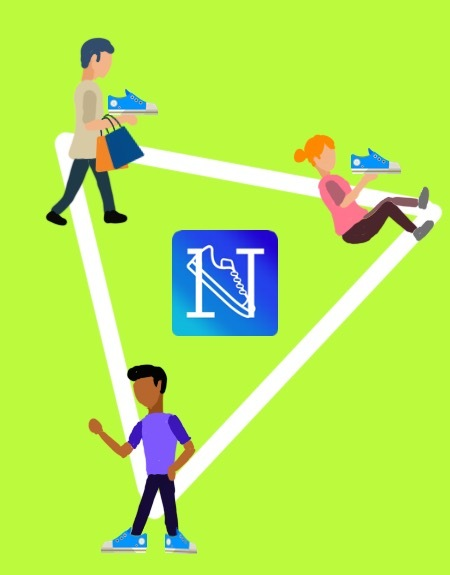
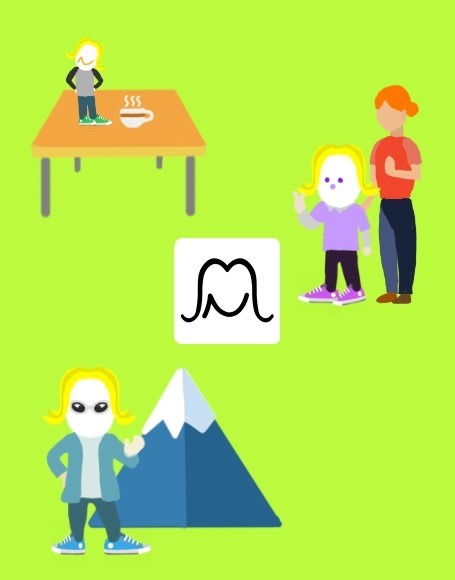
オンボーディング更新

diff --git a/lib/app/views/onboarding_page/onboarding_page.dart b/lib/app/views/onboarding_page/onboarding_page.dart
@@ -94,38 +94,45 @@ class OnboardingPage extends HookConsumerWidget {
       pages: [
         _page(
           context,
-          title: 'N-Sneaker',
-          body: 'N-Sneakerはデジタルスニーカーを\n「買って、集めて、遊べる」\n総合プラットフォームです',
+          title: 'Nevermind',
+          body: 'Nevermindは\n「毎日に小さなオシャレをプラスする」\nファッションフィギュアのアプリです',
           assetImagePath: 'assets/onboarding_images/onboarding1.jpg',
           backgroundImagePath: 'assets/onboarding_images/Blob1.png',
         ),
         _page(
           context,
           title: 'マーケット',
-          body: '気にいったスニーカーを選んで購入',
+          body: '気にいったフィギュアを選んで購入',
           assetImagePath: 'assets/onboarding_images/onboarding2.jpg',
           backgroundImagePath: 'assets/onboarding_images/Blob2.png',
         ),
         _page(
           context,
-          title: 'コレクション',
-          body: '買ったスニーカーはコレクションして\n手のひらの中で好きなだけ\n転がすことができます',
+          title: 'AR',
+          body: 'お気に入りのフィギュアを\nARで私たちの日常に持ってこよう',
           assetImagePath: 'assets/onboarding_images/onboarding3.jpg',
           backgroundImagePath: 'assets/onboarding_images/Blob3.png',
         ),
         _page(
           context,
-          title: 'AR',
-          body: 'お気に入りのスニーカーを\nARで私たちの日常に持ってこよう',
+          title: 'ギャラリー',
+          body: '上手く撮れたフィギュアの写真は\nギャラリーでみんなとシェアしよう',
           assetImagePath: 'assets/onboarding_images/onboarding4.jpg',
           backgroundImagePath: 'assets/onboarding_images/Blob4.png',
         ),
         _page(
           context,
-          title: '',
-          body: 'さあ、新しいファッションライフを\n始めましょう！',
+          title: 'コレクション',
+          body: '買ったフィギュアはコレクションして\n手のひらの中で好きなだけ\n転がすことができます',
           assetImagePath: 'assets/onboarding_images/onboarding5.jpg',
           backgroundImagePath: 'assets/onboarding_images/Blob5.png',
+        ),
+        _page(
+          context,
+          title: '',
+          body: 'さあ、Nevermindと一緒に\n新しい日常を始めましょう！',
+          assetImagePath: 'assets/onboarding_images/onboarding6.jpg',
+          backgroundImagePath: 'assets/onboarding_images/Blob1.png',
         ),
       ],
       next: const Icon(Icons.arrow_forward_ios, color: CommonStyle.black),
@@ -152,12 +159,12 @@ class OnboardingPage extends HookConsumerWidget {
         Navigator.of(context).pop();
       },
       curve: Curves.fastLinearToSlowEaseIn,
-      controlsMargin: const EdgeInsets.all(16),
-      controlsPadding: const EdgeInsets.fromLTRB(8, 4, 8, 4),
+      controlsMargin: const EdgeInsets.all(4),
+      controlsPadding: const EdgeInsets.fromLTRB(2, 4, 2, 4),
       dotsDecorator: const DotsDecorator(
         size: Size(10, 10),
         color: CommonStyle.grey,
-        activeSize: Size(22, 10),
+        activeSize: Size(16, 10),
         activeShape: RoundedRectangleBorder(
           borderRadius: BorderRadius.all(Radius.circular(25)),
         ),
@@ -168,6 +175,7 @@ class OnboardingPage extends HookConsumerWidget {
           borderRadius: BorderRadius.all(Radius.circular(8)),
         ),
       ),
+      dotsFlex: 0,
     );
   }
 }
